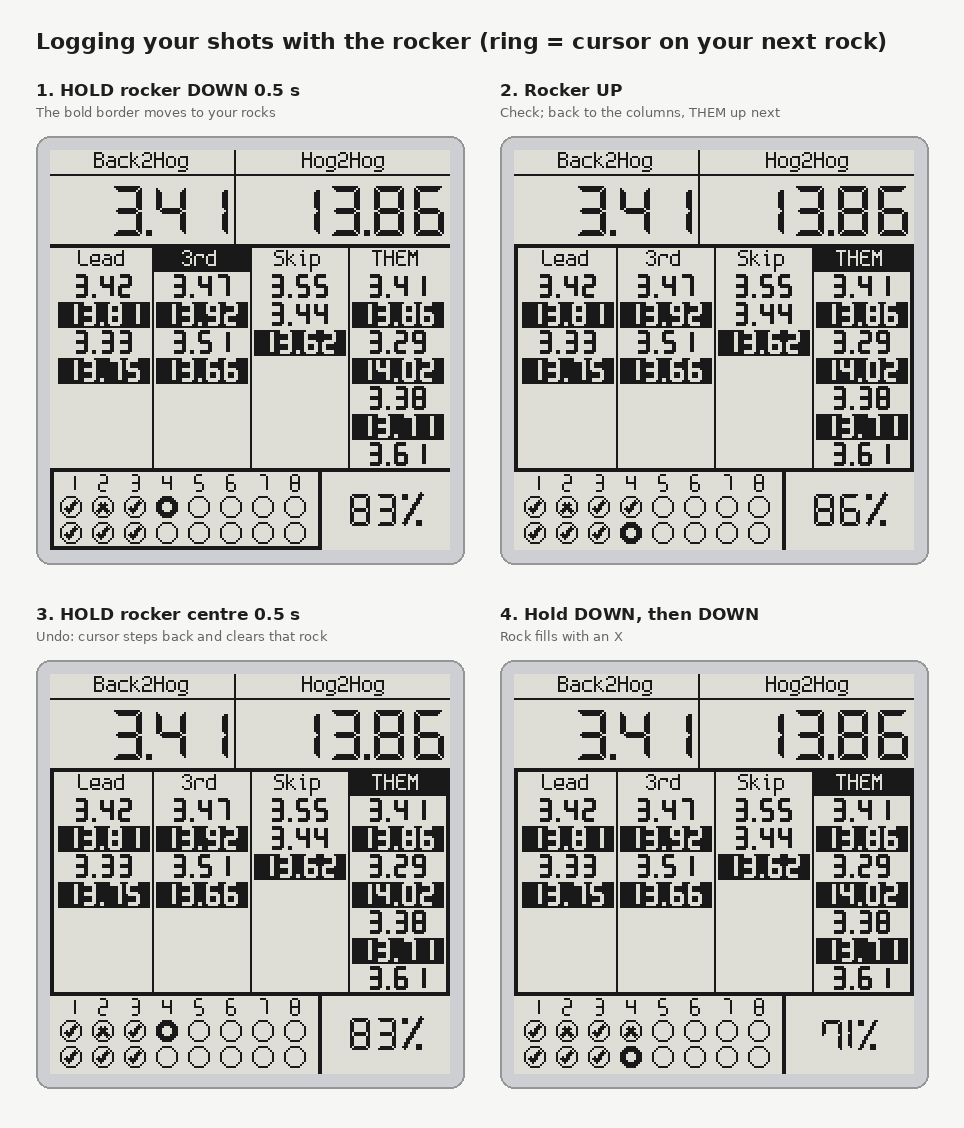
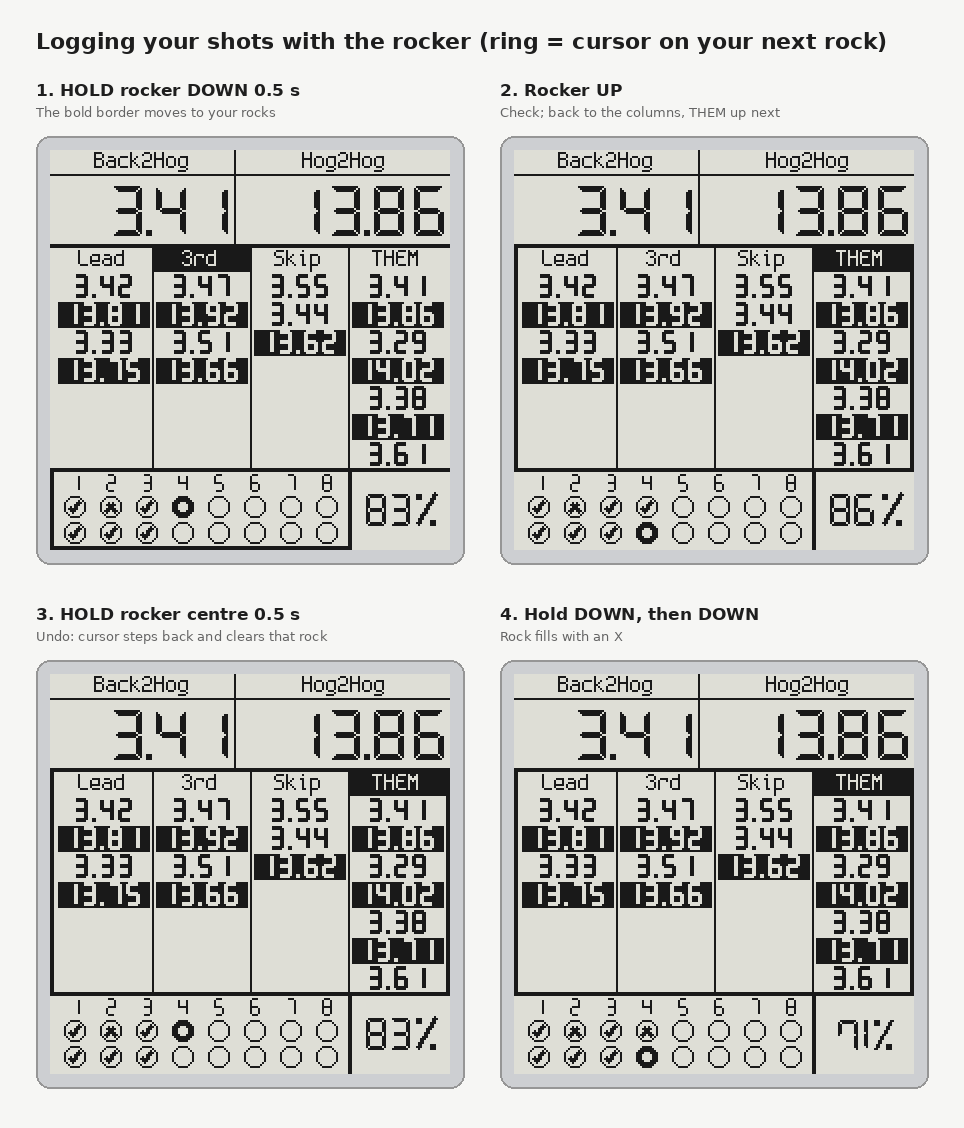
League: the rocks' divider in line with the THEM column's
The divider left of the percentage moves from x 134 to 149, under the line between Skip
and THEM; the eight ends spread across the wider box (18 px apart) and the percentage
fits the narrower one (100% and "Batt low" included). 59 screens, 0 pixels differ.

Claude-Session: https://claude.ai/code/session_01YA9zoncxe9XeMCwR12hQbC

diff --git a/tools/mockups/screen.py b/tools/mockups/screen.py
@@ -390,7 +390,7 @@ def competition_screen(stones, me=0, active=0, low_battery=False, tip=False, wai
 # rocks; logging one goes back to the columns. Hold up on the columns to move the newest time a
 # column right every 0.7 s (as rocker up moves the cursor), put down where it is when let go.
 LEAGUE_ROWS_BOTTOM = 159     # 2 px line under the times
-LEAGUE_PCT_X = 134           # 2 px divider left of the percentage
+LEAGUE_PCT_X = 149           # 2 px divider left of the percentage: in line with the THEM column's
 LEAGUE_SLOTS = 16
 LEAGUE_COLS = [2, 51, 100, 149, 198]  # edges of the four columns
 LEAGUE_TOP = 62              # first line
@@ -467,7 +467,7 @@ def league_screen(stones, shots, me=0, active=0, low_battery=False, tip=False, w
     d.line([(split, top), (split, H - 1)], fill=0, width=2)
     cursor = len(shots) if len(shots) < LEAGUE_SLOTS else -1
     for end in range(8):
-        cx = 10 + end * 16
+        cx = 12 + end * 18  # spread across the box
         f["tiny"].draw(d, str(end + 1), cx - 2, top + 3)
         for r in range(2):
             i = end * 2 + r

diff --git a/firmware/lib/stoprock_ui/src/screens.cpp b/firmware/lib/stoprock_ui/src/screens.cpp
@@ -426,14 +426,14 @@ void drawLeague(Canvas& c, const Stone* stones, uint8_t count, const ShotLog& sh
                 bool lowBattery, Tip tip, Waiting waiting, Focus focus) {
     c.clear();
     const int top = 159;    // 2 px line under the times
-    const int split = 134;  // 2 px divider left of the percentage
+    const int split = 149;  // 2 px divider left of the percentage: in line with the THEM column's
     fourColumns(c, stones, count, me, activeCol, top, kLeagueRows, waiting);
     hline(c, 0, W - 1, top, 2);
     vline(c, split, top, H - 1, 2);
     // your rocks like a scoreboard: ends across, rock 1 over rock 2
     const int cursor = shots.cursor();
     for (int end = 0; end < 8; ++end) {
-        const int cx = 10 + end * 16;
+        const int cx = 12 + end * 18;  // spread across the box
         char n[3];
         snprintf(n, sizeof n, "%d", end + 1);
         kEndFont.draw(c, n, cx - 2, top + 3);

diff --git a/docs/SPEC.md b/docs/SPEC.md
@@ -126,8 +126,8 @@ A stone gives at most one **B2H** (back line, or tee line, to hog line) followed
 | Column labels | y 0–12 | `Back2Hog`, `Hog2Hog` in Spleen 6×12, split at x 92 |
 | Newest result | y 13–47 | DSEG7 Classic Bold 25 px, square decimal point. Blank cell if that split wasn't timed. |
 | Times by player | y 49–158 | Four columns, 49 px wide: your three teammates in throwing order, headed with their position (a 2nd sees `Lead`, `3rd`, `Skip`), then `THEM`, the other team. The player about to throw has the highlighted (inverted) header. Each column lists its stones newest first, a time a line, 7 lines of 14 px, in drawn 7-segment digits (12 px high, 7 px wide): Back2Hog black on white, Hog2Hog **white on black**, so a stone timed both ways takes two lines and a column shows its last 3–4 stones |
-| Your rocks | x 0–135, y 159–199 | Like a scoreboard: ends 1–8 across (drawn digits, 9 px), rock 1 over rock 2 (radius 5); ✓ made, ✗ missed, empty circle not thrown; bold ring = cursor on your next rock |
-| Percentage | x 136–199, y 161–199 | Your shots made, DSEG7 16 px digits, % sign drawn to match. A low battery puts a white-on-black `Batt low` bar above it until charged. |
+| Your rocks | x 0–150, y 159–199 (the divider in line with the THEM column's) | Like a scoreboard: ends 1–8 across (drawn digits, 9 px), rock 1 over rock 2 (radius 5); ✓ made, ✗ missed, empty circle not thrown; bold ring = cursor on your next rock |
+| Percentage | x 151–199, y 161–199 | Your shots made, DSEG7 16 px digits, % sign drawn to match. A low battery puts a white-on-black `Batt low` bar above it until charged. |
 
 **The player cursor.** Each timed stone is filed under the highlighted column. The cursor follows the throw order by itself (`firmware/lib/stoprock_core/src/throw_order.cpp`): an end is 16 throws, the teams alternating, each team's lead throwing two, then the second, third and skip. The device keeps track of where in the end the game is and puts the cursor on whoever throws next, skipping your own throws (you're throwing them):
 
